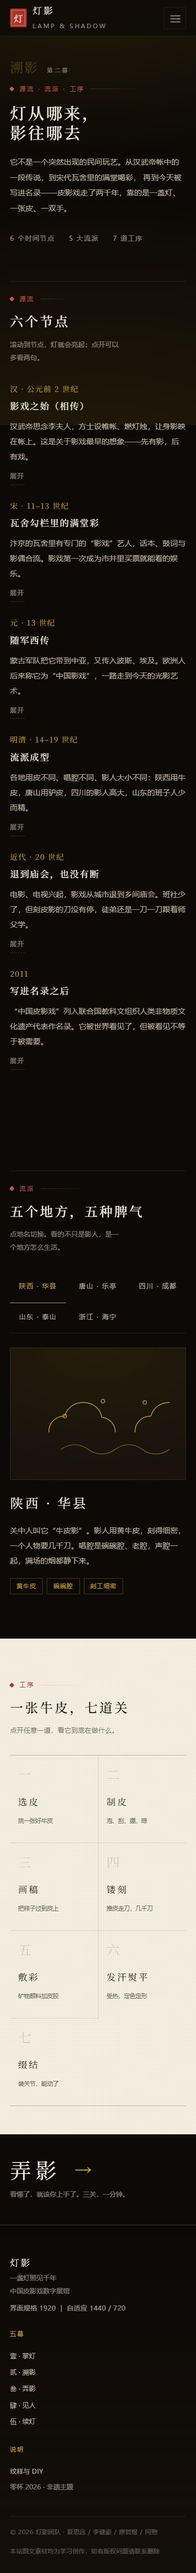
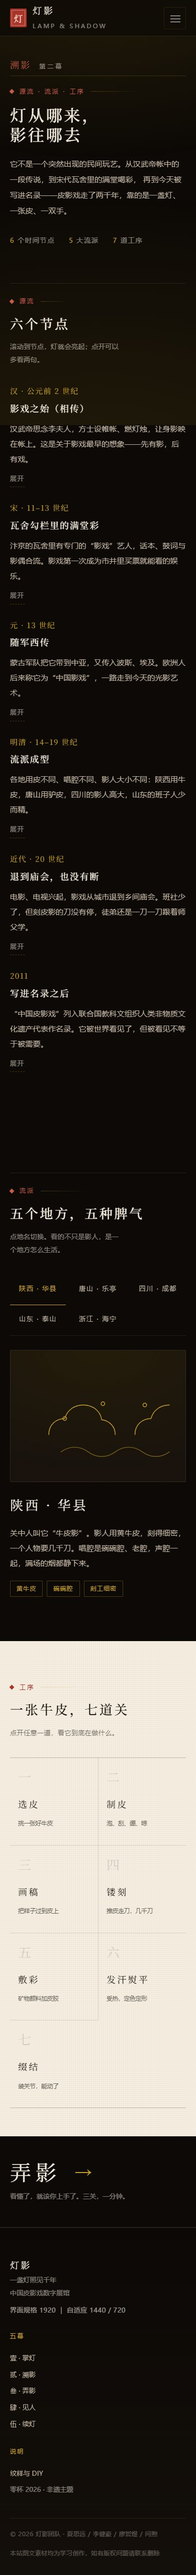
style: 页头侧标改竖排书脊（C 方案第二步）
- .masthead__glyph 改 writing-mode: vertical-rl，朱红书名 + 细线书口 + 竖排小字幕次
- 860px 以下回落横排并在下方加细线，避免竖排挤压标题
- 目的：用中文版面独有的竖排语汇替换通用网页页头
- 回归：30 组审计 0 报错

diff --git a/web/assets/css/pages.css b/web/assets/css/pages.css
@@ -280,3 +280,31 @@ body[data-lit="1"] .hero__scroll { display: none; }
 .case__body { padding: 20px 20px 24px; }
 .case__title { font-family: var(--serif); font-size: var(--fs-h4); letter-spacing: .1em; }
 .case__text { font-size: var(--fs-small); line-height: 1.9; color: var(--paper-dim); margin-top: 8px; }
+
+/* ---------- 书口：页头侧标做成竖排书脊 ---------- */
+.masthead__glyph {
+  writing-mode: vertical-rl;
+  font-family: var(--serif);
+  font-size: var(--fs-h3);
+  letter-spacing: .42em;
+  color: var(--cinnabar-lit);
+  border-right: 1px solid var(--gold-2);
+  padding-right: 18px;
+}
+.masthead__glyph span {
+  display: block;
+  margin-top: 14px;
+  font-family: var(--sans);
+  font-size: var(--fs-micro);
+  letter-spacing: .38em;
+  color: var(--paper-faint);
+}
+@media (max-width: 860px) {
+  .masthead__glyph {
+    writing-mode: horizontal-tb;
+    letter-spacing: .18em;
+    border-right: 0;
+    border-bottom: 1px solid var(--gold-2);
+    padding: 0 0 12px;
+  }
+}
